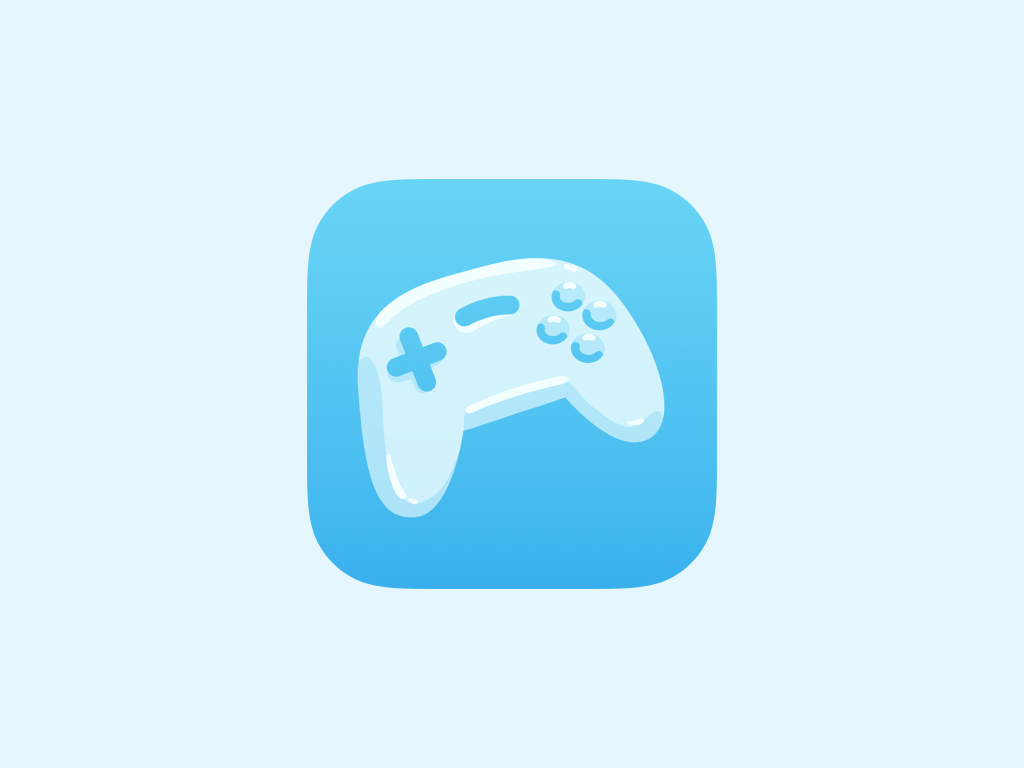
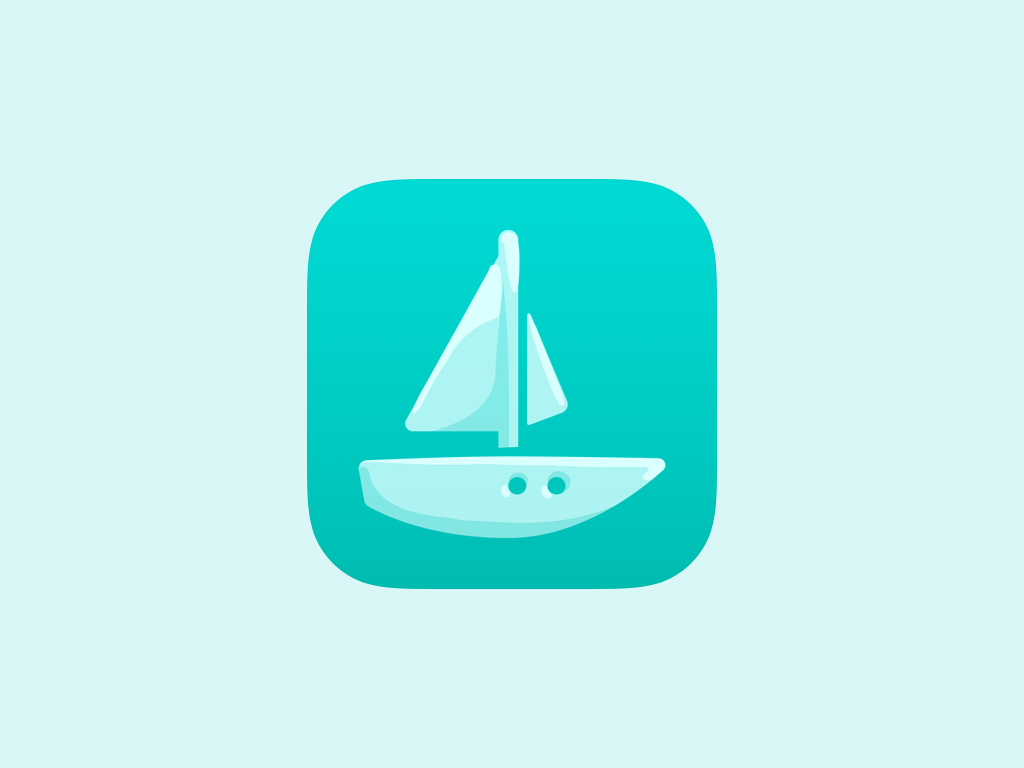
work

Changed region(s): [[0.2812, 0.2188, 0.7188, 0.7812]]

diff --git a/Jaden/SwiftUI/SwiftUISample.swiftpm/TextSampleView.swift b/Jaden/SwiftUI/SwiftUISample.swiftpm/TextSampleView.swift
@@ -4,17 +4,25 @@ struct TextSampleView: View {
     var body: some View {
         VStack{
             Text("Hello World!")
-                .fontWeight(.heavy)
+                .italic()
                 .font(.largeTitle)
                 .foregroundColor(.red)
+                .underline(true, color: .black)
             Text("Hello World!")
                 .bold()
                 .fontWeight(.heavy)
                 .font(.largeTitle)
                 .foregroundColor(.red)
-            Text("Hello World!")
+                .strikethrough(true, color: .blue)
+            Text("11111")
+                .monospacedDigit()
                 .font(.largeTitle)
                 .foregroundColor(.red)
+            Text("23456")
+                .monospacedDigit()
+                .font(.largeTitle)
+                .foregroundColor(.red)
+            
             Text("Hello World2!")
                 .font(.custom("PilGi", size: 33))
         }
@@ -24,5 +32,60 @@ struct TextSampleView: View {
 struct TextSampleView_Previews: PreviewProvider {
     static var previews: some View {
         TextSampleView()
+    }
+}
+
+struct TextDateStyleSample: View {
+    let now = Date()
+    var body: some View {
+        VStack{
+            Text("\(now)")
+            Text("Date: ").bold() + Text(now,style: .date)
+            Text("Time: ").bold() + Text(now,style: .time)
+            Text("Offset: ").bold() + Text(now,style: .offset)
+            Text("Timer: ").bold() + Text(now,style: .timer)
+            Text("Relative: ").bold() + Text(now,style: .relative)
+        }
+    }
+}
+
+
+struct TextFontSample: View {
+    var body: some View {
+        VStack(alignment: .leading){
+            VStack(alignment: .leading){
+                Text("1234  Large Title").font(.largeTitle)
+                Text("1234  Title").font(.title)
+                Text("1234  Title2").font(.title2)
+                Text("1234  Title3").font(.title3)
+                Text("1234  Headline").font(.headline)
+                
+            }
+            Text("1234  Body").font(.body)
+            Text("1234  Callout").font(.callout)
+            Text("1234  Subheadline").font(.subheadline)
+            Text("1234  Footnote").font(.footnote)
+            Text("1234  Caption").font(.caption)
+            Text("1234  Caption2").font(.caption2)
+        }
+    }
+}
+
+
+struct TextFontWeightSample: View {
+    var body: some View {
+        VStack {
+            VStack {
+                Text("ultraLight").fontWeight(Font.Weight.ultraLight)
+                Text("thin").fontWeight(Font.Weight.thin)
+                Text("light").fontWeight(Font.Weight.light)
+                Text("regular").fontWeight(Font.Weight.regular)
+                Text("medium").fontWeight(Font.Weight.medium)
+                Text("semibold").fontWeight(Font.Weight.semibold)
+                Text("bold").fontWeight(Font.Weight.bold)
+                Text("heavy").fontWeight(Font.Weight.heavy)
+                Text("black").fontWeight(Font.Weight.black)
+            }.font(.title)
+        }
     }
 }

diff --git a/Jaden/SwiftUI/BattleShip Teacher Version.swiftpm/ContentView.swift b/Jaden/SwiftUI/BattleShip Teacher Version.swiftpm/ContentView.swift
@@ -54,10 +54,14 @@ struct ContentView: View {
                 var ship : [[Int]] = [[startX,startY]]
                 a = 0
                 while a == 0{
+                    if collision.isEmpty == true{
+                        a = 1
+                    }
                     for i in 0..<collision.count{
                         if startX == collision[i][0] && startY == collision[i][1]{
                             startX = Int.random(in: 0...width-shipCount)
                             startY = Int.random(in: 0...height-1)
+                            ship = [[startX,startY]]
                         }else{
                             a = 1
                         }
@@ -77,10 +81,14 @@ struct ContentView: View {
                 var ship : [[Int]] = [[startX,startY]]
                 a = 0
                 while a == 0{
+                    if collision.isEmpty == true{
+                        a = 1
+                    }
                     for i in 0..<collision.count{
                         if startX == collision[i][0] && startY == collision[i][1]{
                             startX = Int.random(in: 0...width-1)
                             startY = Int.random(in: 0...height-shipCount)
+                            ship = [[startX,startY]]
                         }else{
                             a = 1
                         }
@@ -103,11 +111,11 @@ struct ContentView: View {
     func checkTap(grid: Grid)->Int{
         for i in 0..<ships.count{
             if ships[i].contains([grid.x,grid.y]){
-                //                if players() == 1{
-                //                    p1score += 1
-                //                }else{
-                //                    p2score += 1
-                //                }
+                                if players() == 1{
+                                    p1score += 1
+                                }else{
+                                    p2score += 1
+                                }
                 return i+1
             }
         }
@@ -124,12 +132,11 @@ struct ContentView: View {
                 Text("Player two is clicking")
                     .font(.largeTitle)
             }
-//            Text("Player One Score: \(p1score) ")
-//                .font(.largeTitle)
-//            
-//            Text("Player Two Score: \(p2score)")
-//                .font(.largeTitle)
-//            
+            Text("Player One Score: \(p1score) ")
+                .font(.largeTitle)
+            
+            Text("Player Two Score: \(p2score)")
+                .font(.largeTitle)
             ForEach(board,id:\.self){ row in
                 HStack{
                     ForEach(row){ grid in

diff --git a/Jaden/SwiftUI/SwiftUISample.swiftpm/VStackSampleView.swift b/Jaden/SwiftUI/SwiftUISample.swiftpm/VStackSampleView.swift
@@ -1,0 +1,43 @@
+import SwiftUI
+
+struct VStackSampleView: View {
+    @State var alignment : HorizontalAlignment = .center
+    var body: some View {
+        VStack{
+            VStack(alignment: alignment){
+                RoundedRectangle(cornerRadius: 20)
+                    .fill(.purple)
+                    .frame(width: 50, height: 40)
+                RoundedRectangle(cornerRadius: 20)
+                    .fill(.mint)
+                    .frame(width: 200, height: 40)
+                RoundedRectangle(cornerRadius: 20)
+                    .fill(.blue)
+                    .frame(width: 90, height: 40)
+            }
+            HStack{
+                Button("Leading"){
+                    withAnimation{
+                        alignment  = .leading
+                    }
+                }.buttonStyle(.borderedProminent)
+                Button("Center"){
+                    withAnimation{
+                        alignment  = .center
+                    }
+                }.buttonStyle(.borderedProminent)
+                Button("Trailing"){
+                    withAnimation{
+                        alignment  = .trailing
+                    }
+                }.buttonStyle(.borderedProminent)
+            }
+        }
+    }
+}
+
+struct VStackSampleView_Previews: PreviewProvider {
+    static var previews: some View {
+        VStackSampleView()
+    }
+}

diff --git a/Jaden/SwiftUI/SwiftUISample.swiftpm/ContentView.swift b/Jaden/SwiftUI/SwiftUISample.swiftpm/ContentView.swift
@@ -2,11 +2,21 @@ import SwiftUI
 
 struct ContentView: View {
     var body: some View {
-        VStack {
-            Image(systemName: "globe")
-                .imageScale(.large)
-                .foregroundColor(.accentColor)
-            Text("Hello, world!")
+        NavigationView{
+            List{
+                NavigationLink("TextSampleView"){
+                    TextSampleView()
+                }
+                NavigationLink("TextDateStyleSample"){
+                    TextDateStyleSample()
+                }
+                NavigationLink("TextFontSample"){
+                    TextDateStyleSample()
+                }
+                NavigationLink("VStackSample"){
+                    VStackSampleView()
+                }
+            }
         }
     }
 }

diff --git a/Jaden/SwiftUI/BattleShip Teacher Version.swiftpm/Package.swift b/Jaden/SwiftUI/BattleShip Teacher Version.swiftpm/Package.swift
@@ -18,8 +18,8 @@ let package = Package(
             targets: ["AppModule"],
             displayVersion: "1.0",
             bundleVersion: "1",
-            appIcon: .placeholder(icon: .gamepad),
-            accentColor: .presetColor(.cyan),
+            appIcon: .placeholder(icon: .boat),
+            accentColor: .presetColor(.mint),
             supportedDeviceFamilies: [
                 .pad,
                 .phone

diff --git a/Jaden/SwiftUI/SwiftUISample.swiftpm/Package.swift b/Jaden/SwiftUI/SwiftUISample.swiftpm/Package.swift
@@ -8,13 +8,13 @@ import PackageDescription
 import AppleProductTypes
 
 let package = Package(
-    name: "My App",
+    name: "SwiftUI Sample",
     platforms: [
         .iOS("15.2")
     ],
     products: [
         .iOSApplication(
-            name: "My App",
+            name: "SwiftUI Sample",
             targets: ["AppModule"],
             displayVersion: "1.0",
             bundleVersion: "1",
